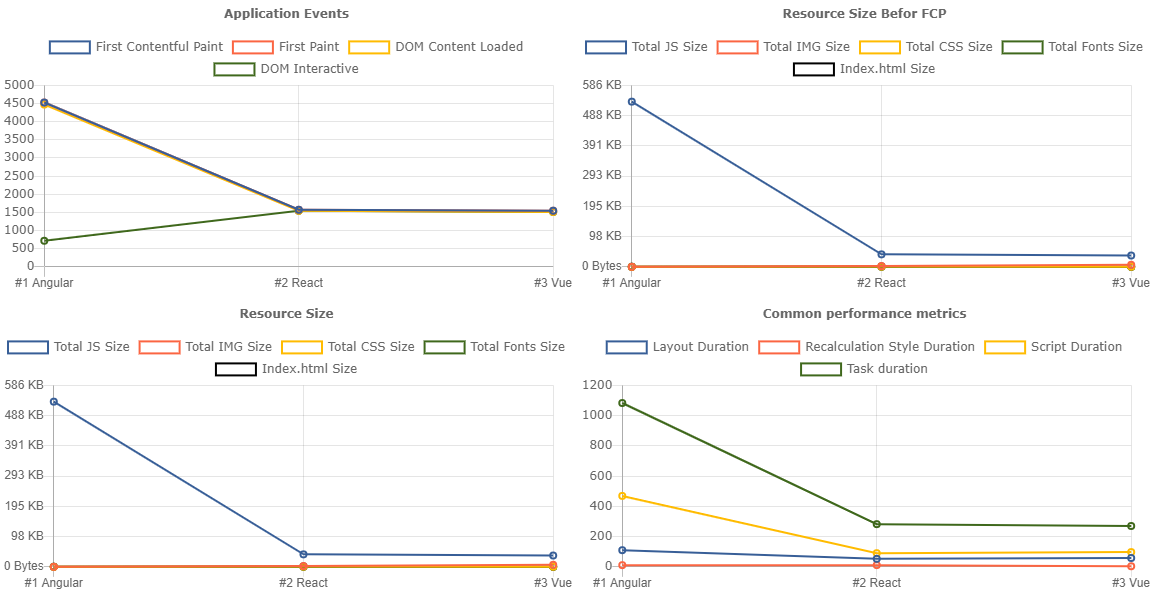
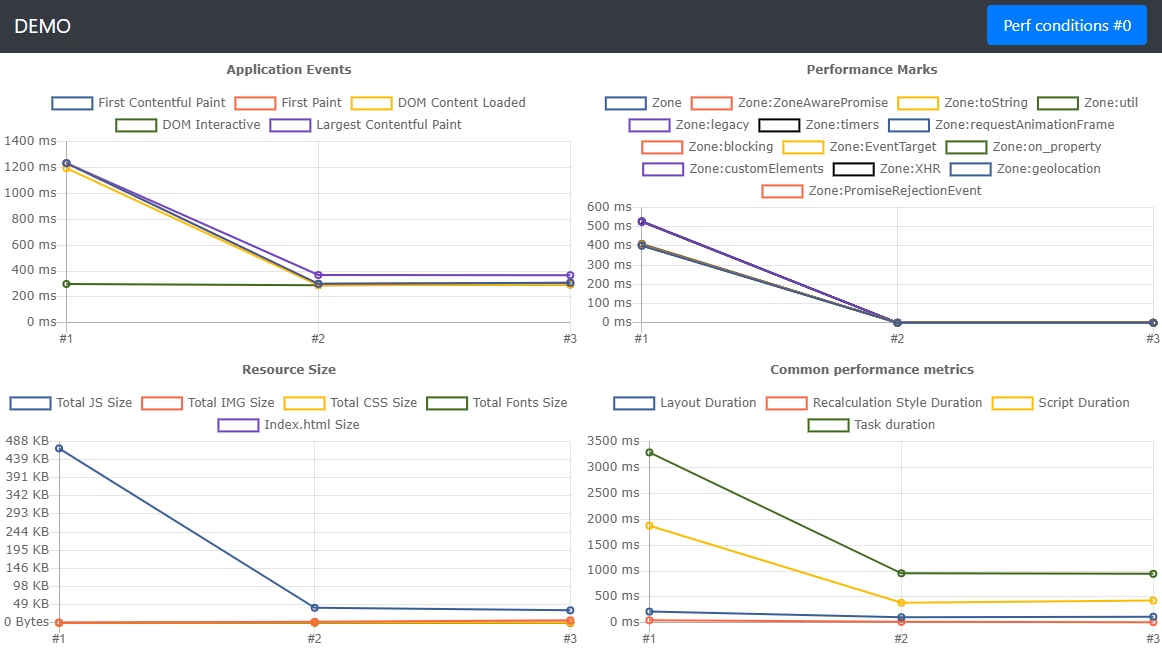
Readme updated

diff --git a/packages/perfrunner-core/src/profiler/profiler.ts b/packages/perfrunner-core/src/profiler/profiler.ts
@@ -21,8 +21,10 @@ async function* profilePage(emptyPage: Page, url: string, runs: number, waitFor:
         t(`start tracing`);
         await tracer.start(emptyPage);
 
+        const started = Date.now();
         t(`start application`);
         await startApplication(emptyPage, url, waitFor);
+        t(`page loaded for ${new Date(started - Date.now()).getMilliseconds()}ms`);
 
         t(`getting trace data`);
         const trace = await tracer.stop();
@@ -97,10 +99,10 @@ export async function profile(url: URL, options: PerfRunnerOptions): Promise<Raw
         await setupPerformanceObservers(page);
         await setupPerformanceConditions(page, options);
 
+        const tracer = new Tracer(options.output);
+
         t('warming up the page');
         await startApplication(page, url.href, waitFor);
-
-        const tracer = new Tracer(options.output);
 
         for await (const dump of profilePage(page, url.href, runs, waitFor, tracer)) {
             const normalizedEntries = normalizedPerformanceEntries(dump.performanceEntries);

diff --git a/packages/perfrunner-core/src/profiler/performance-observers/observer.ts b/packages/perfrunner-core/src/profiler/performance-observers/observer.ts
@@ -1,15 +1,15 @@
 export interface IWithObserver {
-    _cpo?: ICustomPerformanceObserver;
+    _cpo?: IEventStore;
 }
 
-export interface ICustomPerformanceObserver {
+export interface IEventStore {
     _entries: PerformanceEntry[];
     add(performanceEntry: PerformanceEntry): void;
     getEntries(): PerformanceEntry[];
 }
 
 export function setupObserversStorage() {
-    const observer: ICustomPerformanceObserver = {
+    const store: IEventStore = {
         _entries: [],
         add: function (entry) {
             this._entries.push(entry);
@@ -20,5 +20,5 @@ export function setupObserversStorage() {
     };
 
     //@ts-ignore
-    (<IWithObserver>window)._cpo = observer;
+    (<IWithObserver>window)._cpo = store;
 }

diff --git a/packages/perfrunner-core/src/profiler/browser.ts b/packages/perfrunner-core/src/profiler/browser.ts
@@ -23,12 +23,11 @@ export async function setupPerformanceConditions(page: Page, { network, throttli
         await page.setCacheEnabled(true);
     }
 
-    await session.send('Performance.enable');
-
     await session.send('Network.enable');
     await session.send('Emulation.setCPUThrottlingRate', { rate: throttlingRate });
     await session.send('Network.emulateNetworkConditions', { ...network, offline: false }); // https://chromedevtools.github.io/devtools-protocol/tot/Network/#method-emulateNetworkConditions
 
+    await session.send('Performance.enable');
     return session;
 }
 

diff --git a/packages/perfrunner-cli/readme.md b/packages/perfrunner-cli/readme.md
@@ -1,6 +1,6 @@
 # Perfrunner [![Build Status](https://travis-ci.org/Drag13/perfrunner.svg?branch=master)](https://travis-ci.org/Drag13/perfrunner)
 
-Perfrunner - automated tool that helps you to track the performance of your site or web application.
+Perfrunner - performance testing tool for websites and web applications. Tracks your application performance with Performance Events and visualize the progress. Supports various predefined network conditions, CPU throttling, cache. Supports different output - [HTML](#html), [CSV](#csv), [JSON](#json). Uses multiple reruns for better precision.
 
 Tracks:
 
@@ -13,7 +13,13 @@ Tracks:
 
 ## Example
 
+```cmd
+npx perfrunner drag13.io
+```
+
 ![default-html-reporter-example-angular-react-vue](https://raw.githubusercontent.com/Drag13/perfrunner/master/packages/perfrunner-cli/docs/default-html-reporter-example-angular-react-vue.PNG)
+
+It's just an example, please don't consider to take framework depending on this chart :)
 
 ## Installation
 
@@ -29,7 +35,15 @@ For one-time usage:
 npx perfrunner https://drag13.io
 ```
 
-## Options
+## Default options
+
+* Network: **fast-3g**
+* Cache: **false**
+* Runs: **3**
+* Reporter: **html**
+* Throttling: **2**
+
+## All options
 
 |Command | Alias | Description | Default value | IsRequired |
 | - | - | - | - | - |
@@ -38,7 +52,7 @@ npx perfrunner https://drag13.io
 | --comment | - | Provide additional information about test. May be used from reporter | ```undefined``` | Optional
 | --ignore-default-args | - | Ignore defaultArgs for launching Chromium | ```false``` | Optional |
 | --log-level| - | Setup log level: <```verbose```> | ```undefined``` | Optional |
-| --network | - | Network setup: <```online```/```regular-4g```/```fast-3g```/```hspa```/```slow-3g```> | ```fast-3g``` | Optional
+| --network | - | Setup network contions. Multiple values supported. <```online```/```regular-4g```/```fast-3g```/```hspa```/```slow-3g```> | ```fast-3g``` | Optional
 | --no-headless | - | Disables headless mode |  ```false``` | Optional |
 | --purge | - | Remove old data before the test run | ```false``` | Optional
 | --reporter | - | Specify reporter | ```html``` | Optional |
@@ -54,9 +68,9 @@ npx perfrunner https://drag13.io
 
 Supported reporters:
 
-* [html](#html) - renders basic metrics into HTML (FCP, DCL, Size, etc)
-* [json](#json) - saves all data to json
-* [csv](#csv) - saves all data to csv
+* [HTML](#html) - renders basic metrics into HTML (FCP, DCL, Size, etc)
+* [JSON](#json) - saves all data to json
+* [CSV](#csv) - saves all data to csv
 * [custom](#custom) - you can specify your own custom reporter
 
 ## HTML

diff --git a/readme.md b/readme.md
@@ -2,15 +2,17 @@
 
 ## Why
 
-Perfrunner helps you to track the performance of your web application or site and compare progress.
+When we do performance testing or trying to improve application performance, we need reliable, repeatable data. We also need to track progress to understand how changes affect the performance application. And this task is not that easy especially when we are talking about testing against different conditions - bad network, poor CPU, etc. This package was called to remove this complexity and allow you to work on things that maters - your application.
+
+Perfrunner is the performance testing tool for websites and web applications. Perfrunner gives you the possibility to test the site against different network conditions. It tracks the progress and visualizes it with charts to make things clearer. And if you want to go deeper, it already saves the traces of each run to get you the whole information you need. It's fully customizable and supports reporting into HTML, JSON, CSV, or even your own reporter.
 
 Tracks:
 
 * First Contentful Paint
 * Largest Contentful Paint
-* Resources size (js, css, img, fonts)
 * Layout duration time
 * Script duration time
+* Resources size (js, css, img, fonts)
 * And much more!
 
 ## Perfrunner example: Angular vs React vs Vue
